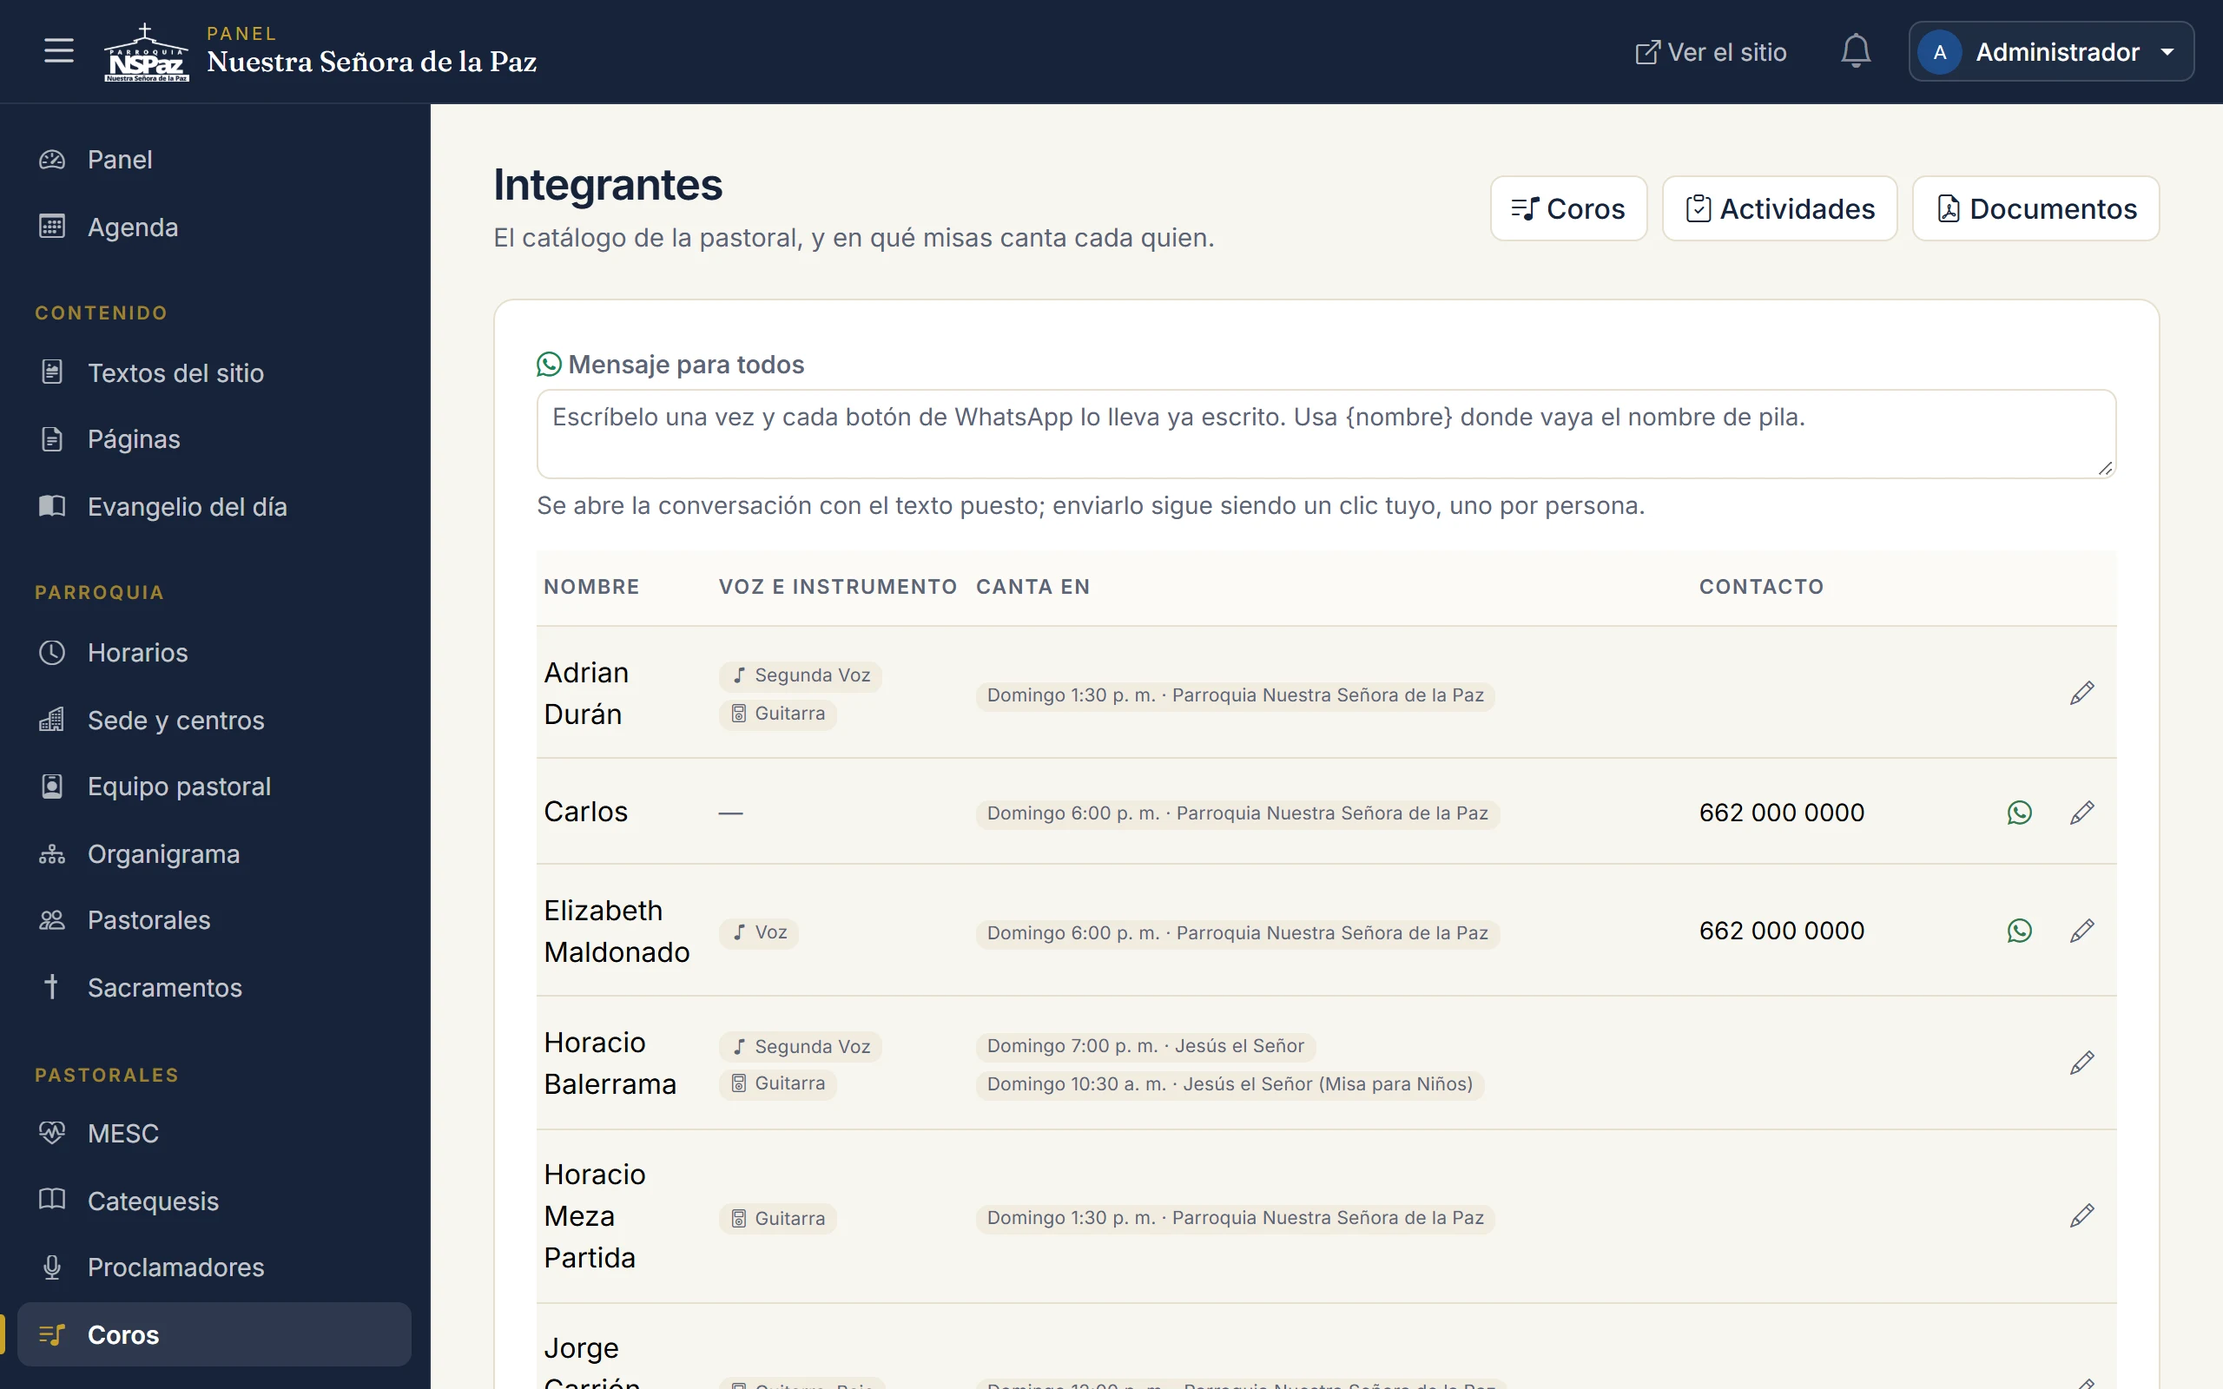
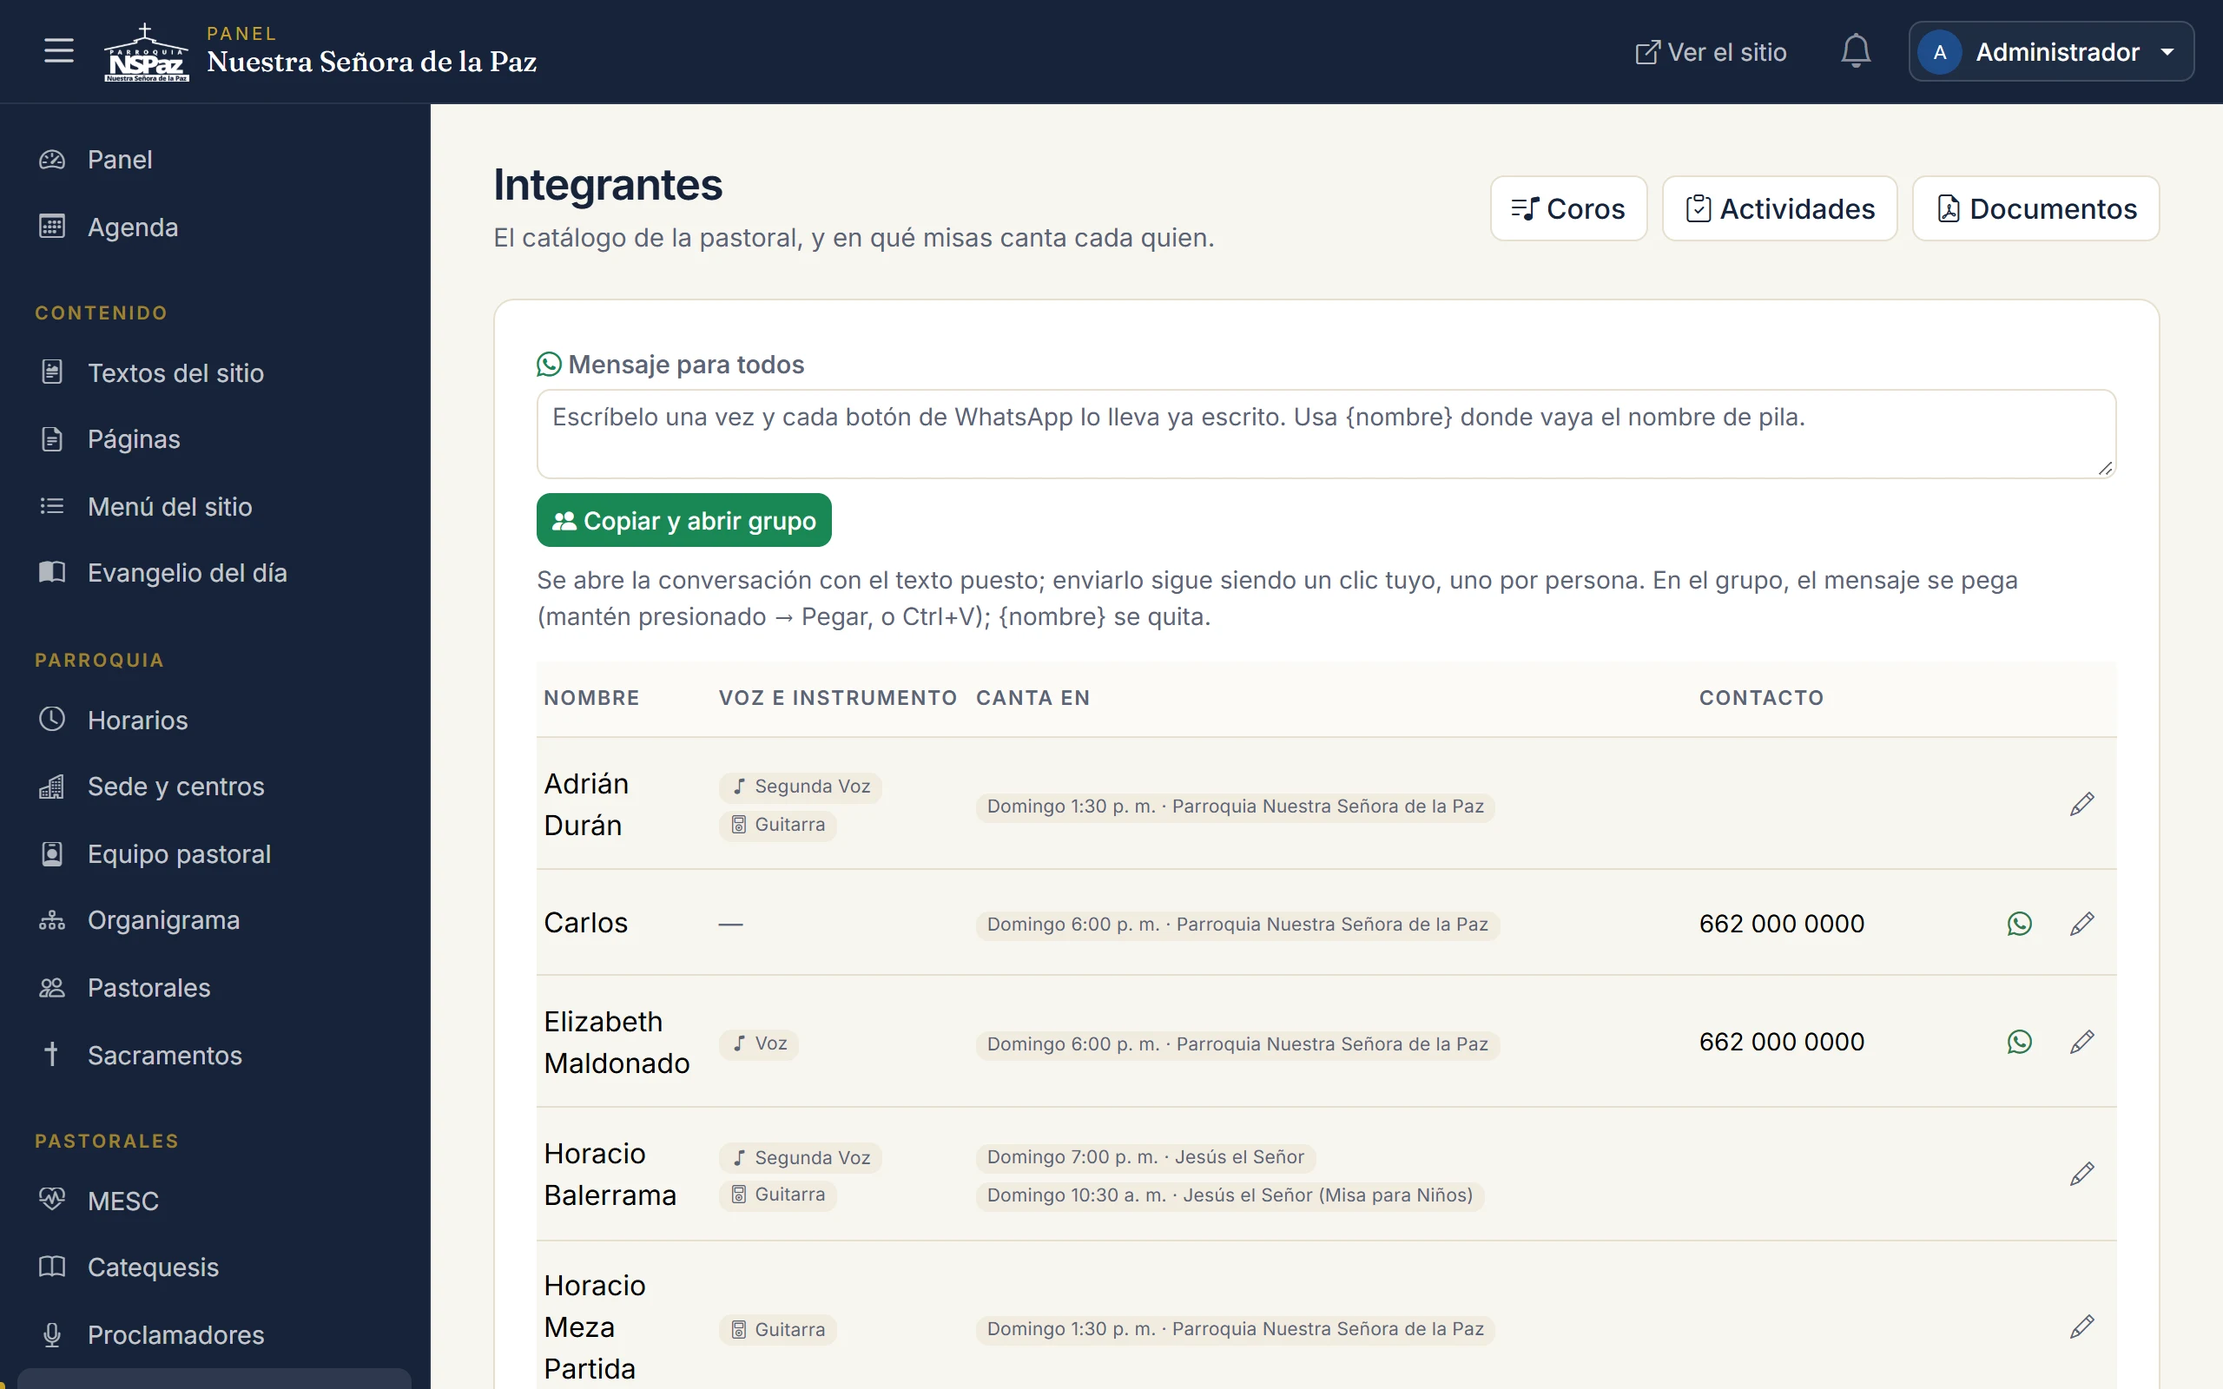
Documentación y manual: el botón «Copiar y abrir grupo» de WhatsApp
- Manual: capítulo 13 explica el campo Grupo de WhatsApp de la ficha y el
  botón; 15 a 18 lo mencionan en su catálogo. {Nombre} con mayúscula.
- Capturas: nueva pastorales-ficha-whatsapp y rehechas las cinco pantallas
  con el cuadro de mensaje, con un enlace de ejemplo (la base quedó en NULL).
- Videos: dos escenas nuevas en el 13 y una frase en 15 a 18, con los focos
  ajustados a la nueva altura del cuadro.
- ARQUITECTURA, PRIVACIDAD, PLAN, ESTADO y README: la decisión, por qué el
  enlace es interno y cómo restablecerlo si circula.

diff --git a/herramientas/capturas_manual_pantallas.js b/herramientas/capturas_manual_pantallas.js
@@ -679,6 +679,24 @@ module.exports = [
         espera: '.sidebar-link',
     },
     {
+        // La ficha desplazada hasta el campo del grupo de WhatsApp, marcado.
+        // Sin recorte: el campo vive en la columna lateral del formulario, y
+        // recortar esa tarjeta daba una tira angosta con la barra de arriba
+        // encima. El enlace que se ve es de ejemplo: el real no se enseña,
+        // porque con él cualquiera puede unirse al grupo.
+        id: 'pastorales-ficha-whatsapp',
+        titulo: 'El enlace del grupo de WhatsApp en la ficha',
+        url: '/admin/pastorales/editar?id=18',
+        espera: '#whatsapp_grupo',
+        marcar: ['#whatsapp_grupo'],
+        antes: async (page) => {
+            await page.$eval('#whatsapp_grupo', (campo) => {
+                campo.value = 'https://chat.whatsapp.com/EjemploDeGrupo2026';
+                campo.scrollIntoView({ block: 'center' });
+            });
+        },
+    },
+    {
         id: 'pastorales-mapa-imprimir',
         titulo: 'El mapa de pastorales para imprimir',
         url: '/admin/pastorales/mapa_imprimir',

diff --git a/docs/manual/13-pastorales.md b/docs/manual/13-pastorales.md
@@ -61,6 +61,19 @@ Se abre con **Editar**. Es la que alimenta la página pública de la pastoral.
   página. **El correo es de la pastoral, no de quien la coordina**: se escribe
   a mano a propósito, para que sobreviva a los relevos en vez de publicar el
   correo personal de quien esté al frente hoy.
+- **Grupo de WhatsApp.** Opcional. Es el enlace de invitación del grupo de la
+  pastoral: en WhatsApp, **Info del grupo → Invitar mediante enlace → Copiar
+  enlace**, y se pega aquí tal cual. Con él aparece el botón **Copiar y abrir
+  grupo** en el panel básico y en el listado del módulo de la pastoral. Solo
+  acepta enlaces que empiezan con `https://chat.whatsapp.com/`; un número de
+  teléfono no sirve.
+
+  ![El enlace del grupo de WhatsApp en la ficha](img/pastorales-ficha-whatsapp.webp)
+
+  > **Este enlace no se publica en el sitio**, y es a propósito: con él
+  > cualquiera puede unirse al grupo. Si llegara a circular, en WhatsApp se
+  > restablece (Info del grupo → Invitar mediante enlace → Restablecer enlace)
+  > y se pega aquí el nuevo.
 - **Reunión**: el lugar, junto al día y la hora de arriba. Es lo que la gente
   busca cuando quiere acercarse.
 - **Acepta voluntarios**, una palomita que lo dice en su página.
@@ -91,11 +104,33 @@ Cada renglón lleva su botón de **WhatsApp**.
 el aviso una vez —«recordatorio: reunión el jueves a las 7»— y cada botón de
 WhatsApp abre la conversación de esa persona **con el texto ya puesto**.
 Escribir `{nombre}` en el mensaje lo sustituye por el nombre de pila de cada
-quien.
+quien: «Hola {nombre}» le llega a Zulema como «Hola Zulema». Da igual si se
+escribe `{nombre}`, `{Nombre}` o `{NOMBRE}`.
 
 Dos cosas que conviene saber de ese cuadro: **enviar sigue siendo un clic tuyo,
 uno por persona** —el sistema no manda nada solo—, y **el texto no se guarda en
 ningún lado**: es un borrador del navegador, no un ajuste del sitio.
+
+**Copiar y abrir grupo.** Si la pastoral tiene guardado el enlace de su grupo de
+WhatsApp —en su ficha, ver arriba—, junto al cuadro aparece este botón verde.
+Con un clic **copia el mensaje y abre el grupo**; ahí solo hay que pegarlo
+(mantener presionado el cuadro de escribir → **Pegar**, o Ctrl+V en la
+computadora) y enviarlo. Debajo del botón aparece «Mensaje copiado. Pégalo en
+el grupo y envíalo» para confirmar que se copió.
+
+Hay que pegarlo porque WhatsApp no deja que un enlace abra un grupo con el texto
+ya escrito: eso solo lo permite con chats de una sola persona. Y como en un
+grupo no hay un nombre que poner, `{nombre}` se quita de esa copia: «Hola
+{nombre}, mañana hay junta» se pega como «Hola, mañana hay junta».
+
+Si la pastoral todavía no tiene el enlace, quien puede editar su ficha ve
+debajo del cuadro **Agrega el enlace del grupo de WhatsApp**, que lleva
+directo a ese campo.
+
+> El sistema **no crea grupos** ni agrega gente a ellos: eso se sigue haciendo
+> en WhatsApp. Crearlos desde aquí obligaría a contratar el servicio de empresa
+> de WhatsApp, con su costo y su trámite, y el grupo quedaría a nombre de ese
+> número y no de quien coordina.
 
 **Si la pastoral tiene módulo propio** —MESC, Catequesis, Proclamadores,
 Coros—, arriba aparece un aviso con el botón **Ir a turnos y catálogo**, que

diff --git a/docs/ARQUITECTURA.md b/docs/ARQUITECTURA.md
@@ -1828,6 +1828,33 @@ borrador en `sessionStorage`. Se consideró una clave en `configuracion` y se de
 plantilla fija solo puede saludar, y el aviso de la reunión —que es lo que de verdad se
 manda a quince personas— cambia cada vez. Así además no toca la base de datos.
 
+La marca se reconoce como se teclee: `{nombre}`, `{Nombre}`, `{NOMBRE}` o `{ nombre }`. Al
+principio solo valía en minúsculas, y quien escribía «Hola {Nombre}» —lo natural al empezar
+una frase— veía llegar la marca tal cual al chat, sin pista de por qué.
+
+**Al grupo de la pastoral, copiar y abrir.** Muchas pastorales ya tienen su grupo de
+WhatsApp, y la parroquia pidió mandar el aviso ahí en vez de a cada quien. WhatsApp no tiene
+un enlace que abra un grupo con el texto ya escrito —`wa.me` solo sirve para chats de una
+persona—, y crear el grupo desde el sistema exige la misma Cloud API de arriba, con el
+añadido de que el grupo quedaría a nombre del número de empresa y no de quien coordina. Lo
+que sí existe es el **enlace de invitación** (`https://chat.whatsapp.com/CODIGO`), que abre
+el grupo. Cada pastoral puede guardarlo en su ficha (`pastorales.whatsapp_grupo`), y junto al
+cuadro aparece **Copiar y abrir grupo**: copia el mensaje al portapapeles y abre el grupo en
+el mismo clic, y ahí se pega. En un grupo no hay un nombre que poner, así que en esa copia
+`{nombre}` se quita junto con el espacio que lo precede («Hola {nombre}, mañana…» → «Hola,
+mañana…»). La copia usa `navigator.clipboard` y cae a `document.execCommand('copy')` donde
+no lo hay —el sitio servido por `http` fuera de `localhost`—; si las dos fallan, lo dice y
+pide copiarlo a mano.
+
+El enlace se guarda **limpio**: `whatsapp_grupo_enlace()` (`core/helpers.php`) acepta lo que
+se pega desde la app —con o sin `https://`, con el `?mode=…` que WhatsApp le añade al
+copiarlo, con `/invite/`— y devuelve la forma canónica, o `''` si no es un enlace de grupo;
+la ficha rechaza entonces el guardado, porque un número o un `wa.me` armarían un botón que
+no lleva al grupo. Y es un dato **interno**: con ese enlace cualquiera puede unirse, así que
+no se dibuja en el sitio público y el botón solo aparece con `personas.contactar`, igual que
+los individuales. Los cuatro módulos dedicados encuentran su pastoral por las constantes
+`PASTORAL_*` de `config/app.php`, las mismas con que ya resuelven su `pastoralId()`.
+
 **El permiso es propio: `personas.contactar`.** No sirve `personas.ver`, que no lo tiene
 ninguna coordinación; ni bastan `mesc.ver` y sus gemelos, que los lleva también Consulta —el
 integrante de a pie— y que ya dejan el teléfono a la vista en texto plano desde antes. El

diff --git a/docs/PLAN.md b/docs/PLAN.md
@@ -188,6 +188,7 @@ pedidos después, cada uno con su origen; todos están implementados y probados 
 | Quién coordina, a la vista, y quién edita la ficha | El nombre de quien lleva cada pastoral se lee en el listado y en el panel —y en el sitio público, bajo cada Comisión y en cada tarjeta— sin abrir la ficha; y esa ficha pasa a editarla solo administración y coordinación general. El panel explica además qué hace cada rol al dar de alta una cuenta | Petición de la parroquia |
 | Avisar por WhatsApp a la pastoral | Un botón junto a cada integrante —tenga ficha en el equipo o esté solo con su nombre y su teléfono a mano— abre la conversación con el mensaje ya escrito; el texto se teclea una vez arriba del listado y lo llevan todos. Son enlaces `wa.me`, no la API de Meta: sin costo, sin trámite y sin llamadas salientes. Requiere el permiso nuevo `personas.contactar` | Petición de la parroquia |
 | Validación de teléfonos al capturar | Los trece campos de teléfono del panel y del sitio exigen diez dígitos —con espacios, guiones o paréntesis, como se quiera— o el número de otro país con `+` y su clave; cualquier letra los invalida, que es lo que atrapaba la extensión pegada al número. Se comprobó que ninguno de los teléfonos ya guardados queda fuera de la regla | Hueco que dejó a la vista el botón de WhatsApp |
+| Mensaje al grupo de WhatsApp de la pastoral | Cada pastoral puede guardar en su ficha el enlace de invitación de su grupo, y junto al «Mensaje para todos» aparece **Copiar y abrir grupo**: copia el aviso y abre el grupo para pegarlo, porque WhatsApp no deja abrir un grupo con el texto ya escrito. El enlace es interno, no se publica. De paso, `{Nombre}` con mayúscula ya se sustituye igual que `{nombre}` | Petición de la parroquia |
 
 El detalle de cada decisión —y de los errores que estos bloques encontraron en el código de
 la fase 1— está en [`ARQUITECTURA.md`](ARQUITECTURA.md).

diff --git a/docs/PRIVACIDAD.md b/docs/PRIVACIDAD.md
@@ -152,6 +152,13 @@ Al abrir WhatsApp, el número pasa al celular de quien escribe y la conversació
 fuera de este sistema: es contacto entre personas del equipo, no una base de datos que el
 panel exporte.
 
+El enlace de invitación al grupo de WhatsApp de cada pastoral (`pastorales.whatsapp_grupo`)
+se trata igual de reservado: con él cualquiera puede unirse al grupo y ver los números de
+quienes están ahí. Por eso no se publica en la página de la pastoral ni en ninguna parte
+del sitio, y el botón que lo usa solo lo ve quien tiene `personas.contactar`. Si el enlace
+llegara a circular, se revoca en WhatsApp (Info del grupo → Invitar mediante enlace →
+Restablecer enlace) y se pega el nuevo en la ficha.
+
 El rol de secretaría existe precisamente para esto: separar a quien administra trámites de
 quien edita la web. Un coordinador de pastoral juvenil publica avisos y sube fotos de sus
 actividades, pero no tiene por qué ver las actas de nacimiento de los niños de catequesis.

diff --git a/README.md b/README.md
@@ -143,6 +143,11 @@ ha trabajado un segundo bloque de cambios pedidos por la parroquia:
   teléfono, que era la mitad del problema. Son enlaces `wa.me`: abren WhatsApp, no mandan
   nada por su cuenta, así que no hay costo, ni trámite con Meta, ni una sola llamada
   saliente desde el servidor.
+- **Y al grupo de la pastoral.** Si la pastoral guarda en su ficha el enlace de su grupo de
+  WhatsApp, junto al mensaje aparece **Copiar y abrir grupo**: copia el aviso y abre el
+  grupo, donde se pega. WhatsApp no deja abrir un grupo con el texto ya escrito ni crearlo
+  sin la API de Meta, así que esto es lo más cerca que se puede llegar sin ella. El enlace
+  es interno: no se publica.
 - **Los teléfonos se validan al capturarlos.** No se validaban en ninguna parte: en el
   formulario de contacto bastaba con que el campo no estuviera vacío, y una extensión
   pegada al número se guardaba tal cual y luego no llevaba a nadie. Ahora los trece campos

diff --git a/docs/ESTADO-DEL-PROYECTO.md b/docs/ESTADO-DEL-PROYECTO.md
@@ -83,7 +83,9 @@ quien: quién con quién es un dato de la parroquia y lo usan todas las pastoral
 `organigrama`, `horarios`, `pastorales` (con su jerarquía de Comisiones, su panel básico por
 pastoral, y un responsable que puede ser una persona o un matrimonio). En los listados de
 integrantes —los cuatro módulos dedicados y el panel básico— cada quien lleva su botón de
-WhatsApp, y arriba un cuadro para escribir una sola vez el mensaje que todos llevarán.
+WhatsApp, y arriba un cuadro para escribir una sola vez el mensaje que todos llevarán. Si
+la pastoral guardó en su ficha el enlace de su grupo de WhatsApp, junto al cuadro aparece
+además **Copiar y abrir grupo**, que copia ese mensaje y abre el grupo para pegarlo.
 
 **Comunicación** — `avisos`, `eventos`, `agenda` (calendario interno, ve borradores de
 toda la parroquia a propósito, para que nadie reserve el salón dos veces).

diff --git a/docs/manual/15-mesc.md b/docs/manual/15-mesc.md
@@ -43,7 +43,9 @@ está en el equipo.
 
 Cada renglón trae su botón de **WhatsApp**, y arriba el cuadro de **Mensaje
 para todos** que explica el capítulo 13: se escribe el recordatorio una vez y
-cada botón abre la conversación con el texto ya puesto.
+cada botón abre la conversación con el texto ya puesto. Si la ficha de la
+pastoral tiene el enlace de su grupo, ahí mismo está **Copiar y abrir grupo**,
+para mandar el aviso al grupo de ministros en vez de a cada uno.
 
 El interruptor **Activo** saca a alguien del rol sin borrar su historial.
 

diff --git a/docs/manual/16-catequesis.md b/docs/manual/16-catequesis.md
@@ -18,7 +18,9 @@ asigna al agregar a la persona al periodo, como se explica más abajo.
 
 Cada renglón trae su botón de **WhatsApp** y arriba está el cuadro de **Mensaje
 para todos**: es la forma de mandar el aviso de la junta de catequistas sin
-teclearlo doce veces.
+teclearlo doce veces. Y si los catequistas ya tienen su grupo de WhatsApp, con
+**Copiar y abrir grupo** el aviso va al grupo de una vez: se guarda el enlace
+del grupo en la ficha de la pastoral, como explica el capítulo 13.
 
 ## Periodos
 

diff --git a/docs/manual/18-coros.md b/docs/manual/18-coros.md
@@ -35,7 +35,9 @@ coro.
 El listado se despliega con el **+** de cada coro, para poder ver la lista
 completa sin que la pantalla se haga interminable. Y como en los otros
 catálogos, cada quien trae su botón de **WhatsApp** y arriba está el **Mensaje
-para todos**.
+para todos**, con **Copiar y abrir grupo** si la pastoral guardó el enlace de
+su grupo (capítulo 13). Aquí es lo más útil: casi ningún corista tiene el
+teléfono anotado, pero el grupo del coro sí existe.
 
 ## Actividades y documentos
 

diff --git a/docs/manual/17-proclamadores.md b/docs/manual/17-proclamadores.md
@@ -29,7 +29,8 @@ Se puede marcar más de una. Quien arma el rol mira esta lista antes de repartir
 el mes: el salmo cantado no lo hace cualquiera, y el monitor tampoco.
 
 Como en los demás catálogos, cada renglón trae su **WhatsApp** y arriba está el
-**Mensaje para todos**.
+**Mensaje para todos**, con **Copiar y abrir grupo** si la pastoral guardó el
+enlace de su grupo (capítulo 13).
 
 ## Calendario de turnos
 
